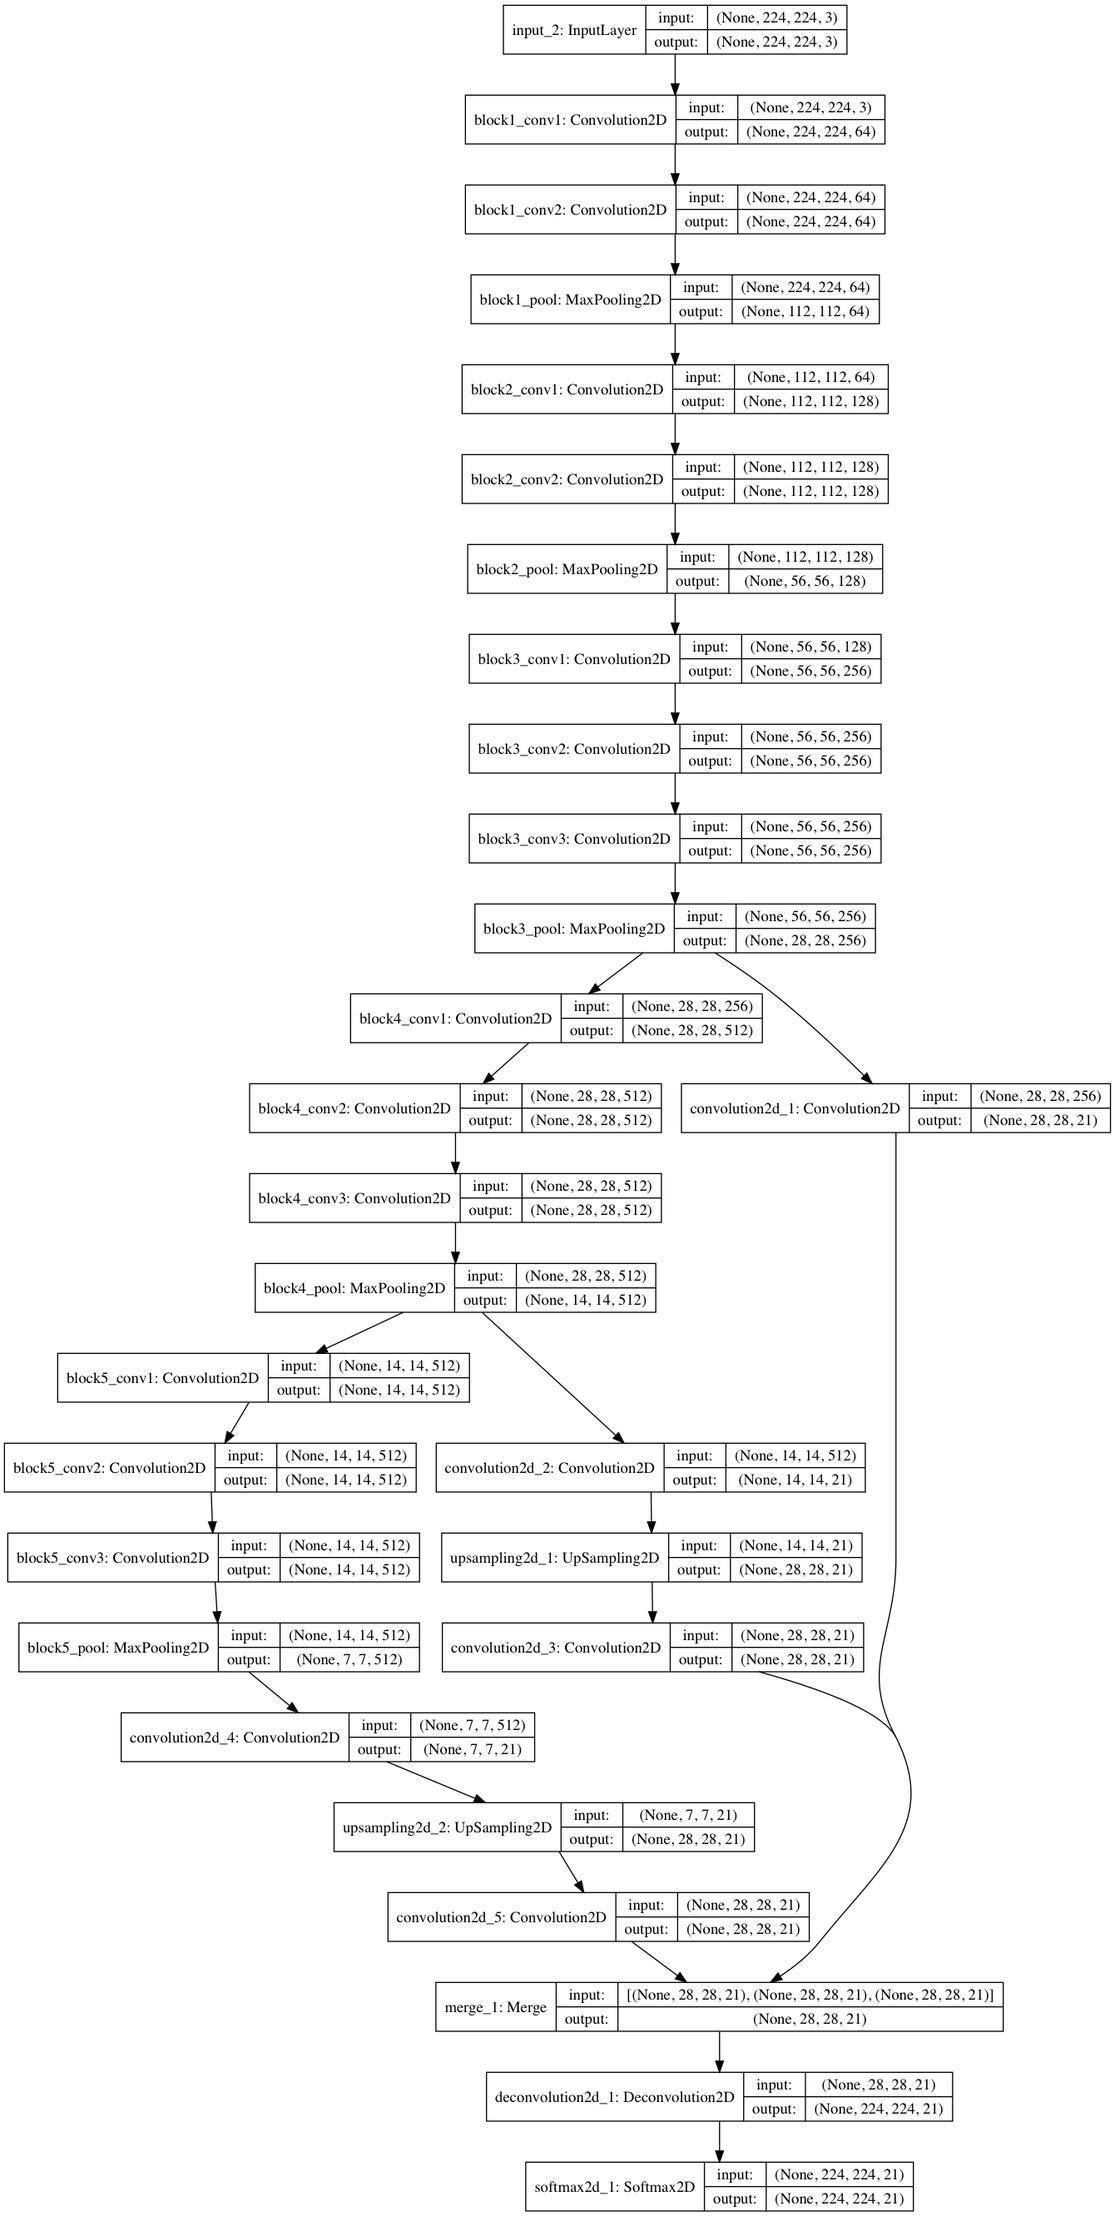
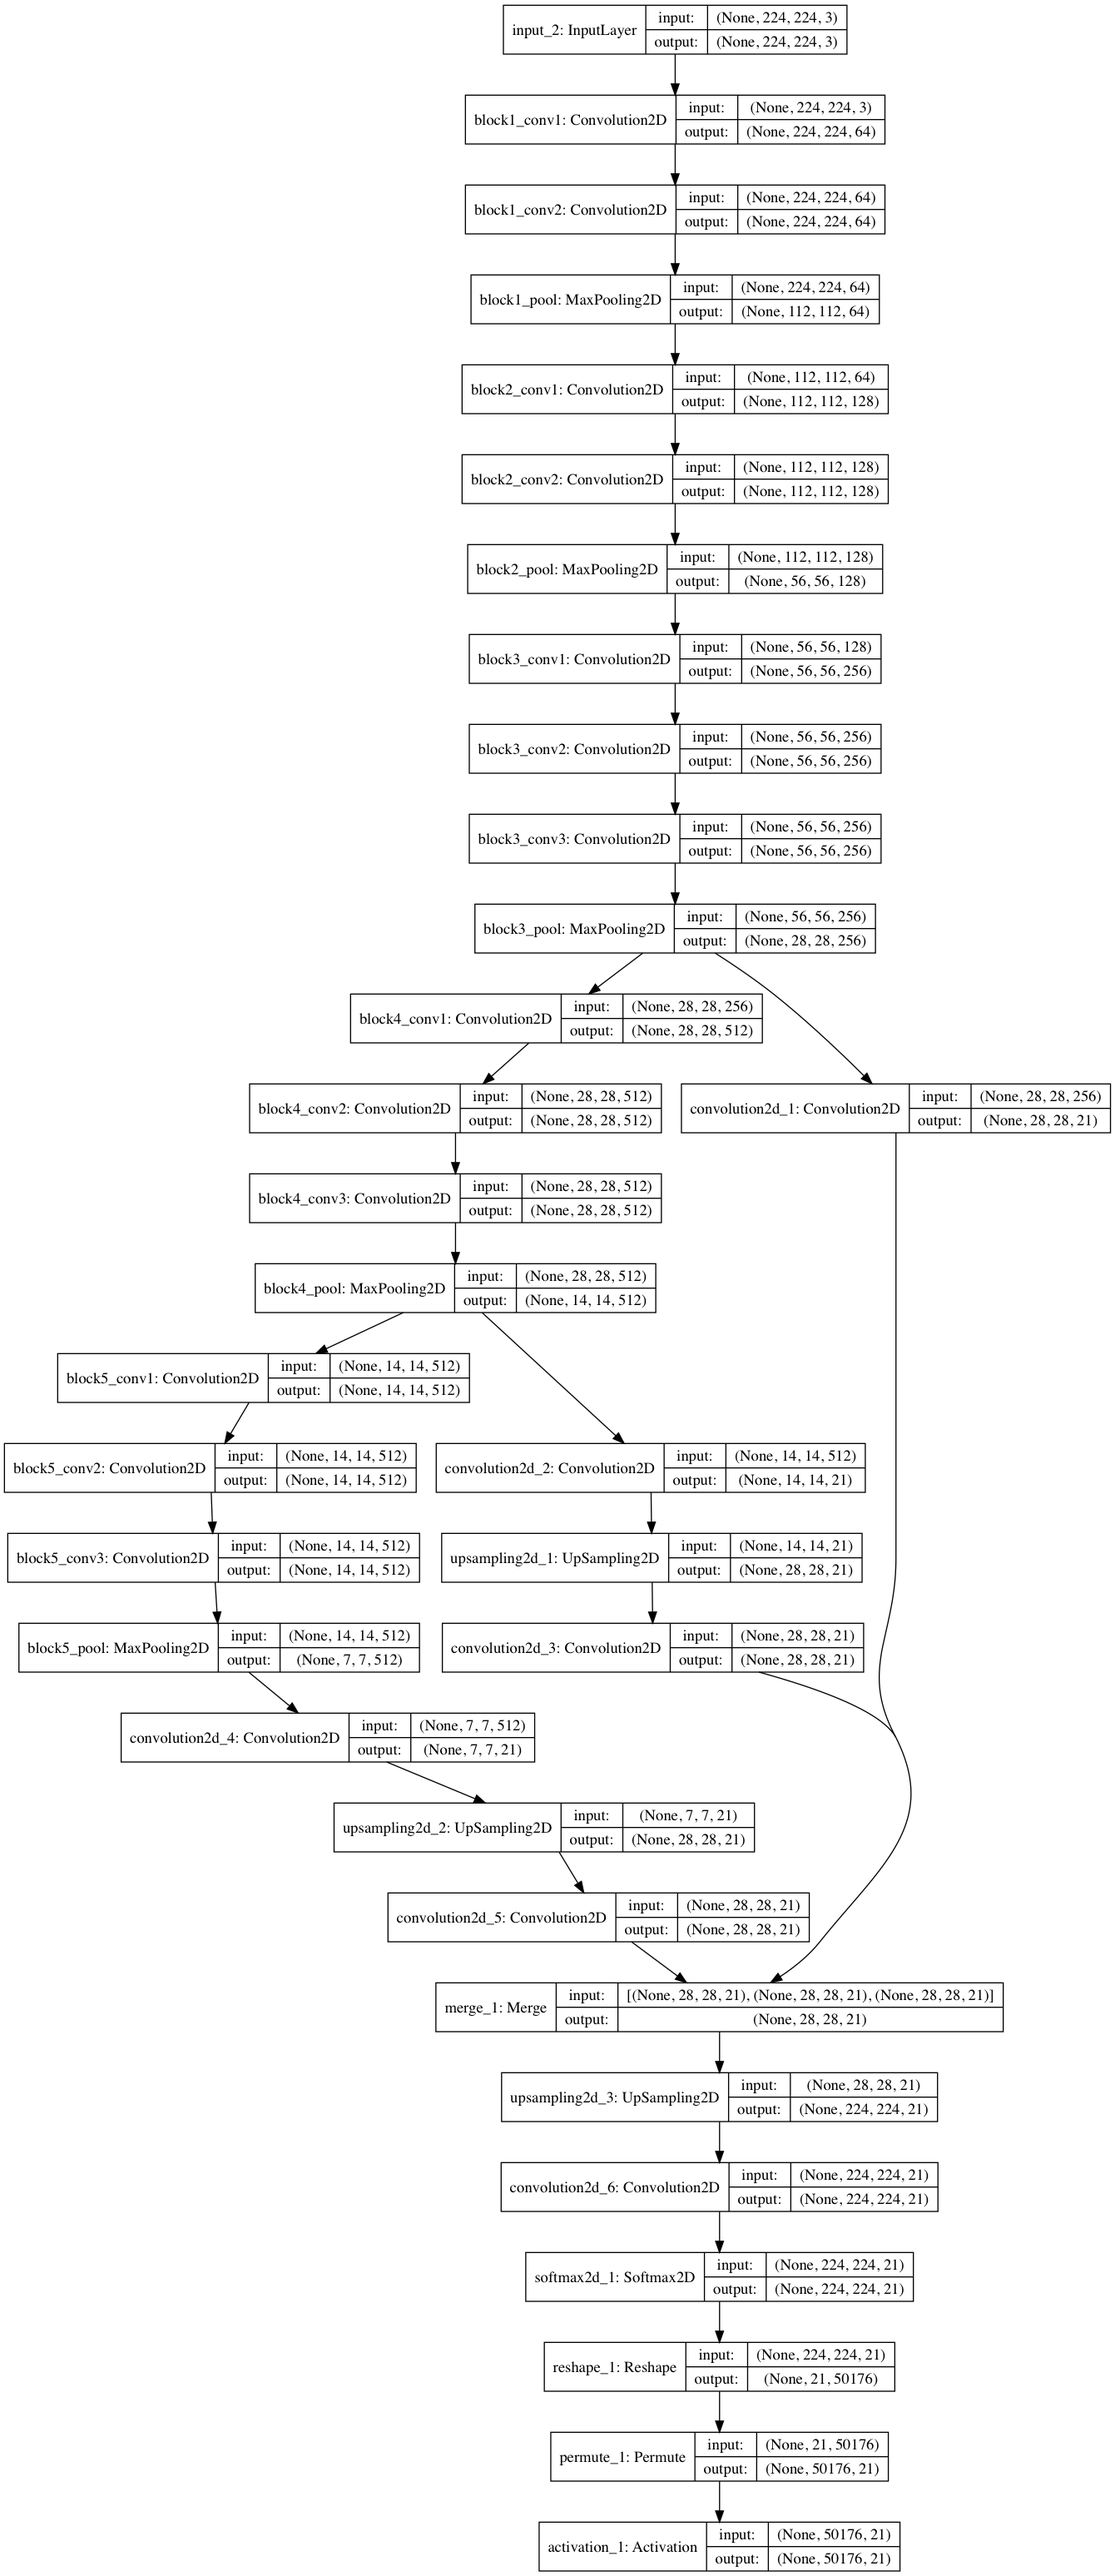
edit

diff --git a/model.py b/model.py
@@ -36,7 +36,7 @@ class FullyConvolutionalNetwork():
                            input_tensor=None,
                            input_shape=(self.img_height, self.img_width, 3))
 
-    def create_model(self):
+    def create_model(self, train_flag=True):
         #(samples, channels, rows, cols)
         ip = Input(shape=(self.img_height, self.img_width, 3))
         h = self.vgg16.layers[1](ip)
@@ -100,13 +100,20 @@ class FullyConvolutionalNetwork():
         """
         h = UpSampling2D((8, 8))(h)
         h = Convolution2D(self.FCN_CLASSES, 3, 3, activation='relu', border_mode='same')(h)
+        h = Softmax2D()(h)
+        fcn = Model(ip, h)
 
-        out = Softmax2D()(h)
-        model = Model(ip, out)
-        return model
+        if not train_flag:
+            return fcn
+
+        h = Reshape((self.FCN_CLASSES,self.img_height*self.img_width))(h)
+        h = Permute((2,1))(h)
+        out = Activation("softmax")(h)
+        train_model = Model(ip, out)
+        return train_model, fcn
 
 if __name__ == "__main__":
     from keras.utils.visualize_util import model_to_dot, plot
     FCN = FullyConvolutionalNetwork()
-    model = FCN.create_model()
+    model, _ = FCN.create_model()
     plot(model, to_file='FCN_model.png',show_shapes=True)

diff --git a/train.py b/train.py
@@ -38,9 +38,8 @@ nb_data = len(names)
 
 FCN = FullyConvolutionalNetwork(img_height=img_size, img_width=img_size, FCN_CLASSES=nb_class)
 adam = Adam(lr=args.lr)
-model = FCN.create_model()
-
-model.compile(loss=categorical_crossentropy2D, optimizer='adam')
+train_model, fcn = FCN.create_model(train_flag=True)
+train_model.compile(loss="categorical_crossentropy", optimizer='adam')
 if len(args.weight):
     model.load_weights(args.weight, model)
 print("Num data: {}".format(nb_data))
@@ -57,10 +56,10 @@ pred = model.predict(X)[0]
 print(pred[0,0,:].sum())
 print(pred[0,0,:])
 """
-model.fit_generator(generate_arrays_from_file(names,path_to_train,path_to_target,img_size, nb_class),
+train_model.fit_generator(generate_arrays_from_file(names,path_to_train,path_to_target,img_size, nb_class),
                     samples_per_epoch=nb_data,
                     nb_epoch=args.epoch)
 if not os.path.exists("./weight"):
     os.mkdir("./weight")
 
-#model.save_weights('./weight"/fcn_params')
+fcn.save_weights('./weight"/fcn_params')

diff --git a/predict.py b/predict.py
@@ -6,8 +6,8 @@ import numpy as np
 
 def predict():
     FCN = FullyConvolutionalNetwork()
-    model = FCN.create_model()
-    #model.load_weights("weights_of_{}.hdf5".format(model_name))
+    model = FCN.create_model(train_flag=False)
+    model.load_weights("./weight/fcn_params")
     X = load_data("demo_imgs/X1.jpg", 224, label=False)
     pred = model.predict(X)[0]
     pred = pred.argmax(axis=-1).astype(np.int32)

diff --git a/preprocess.py b/preprocess.py
@@ -28,7 +28,7 @@ def load_data(path, size, label=True):
         y[mask] = 0
         y = binarylab(y, size, 21)
         y = np.expand_dims(y, axis=0)
-
+        y = y.reshape((1,size*size,21))
         return y
     else:
         X = image.img_to_array(img)
